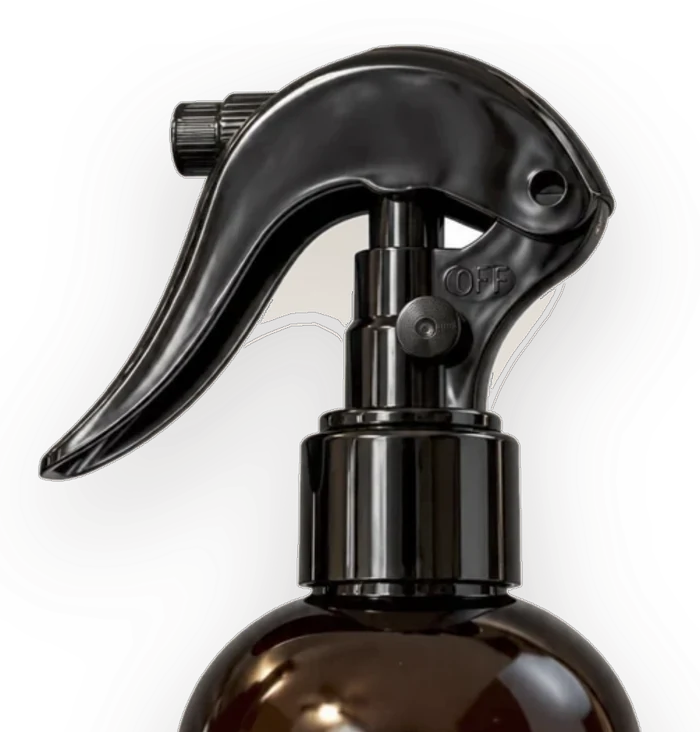
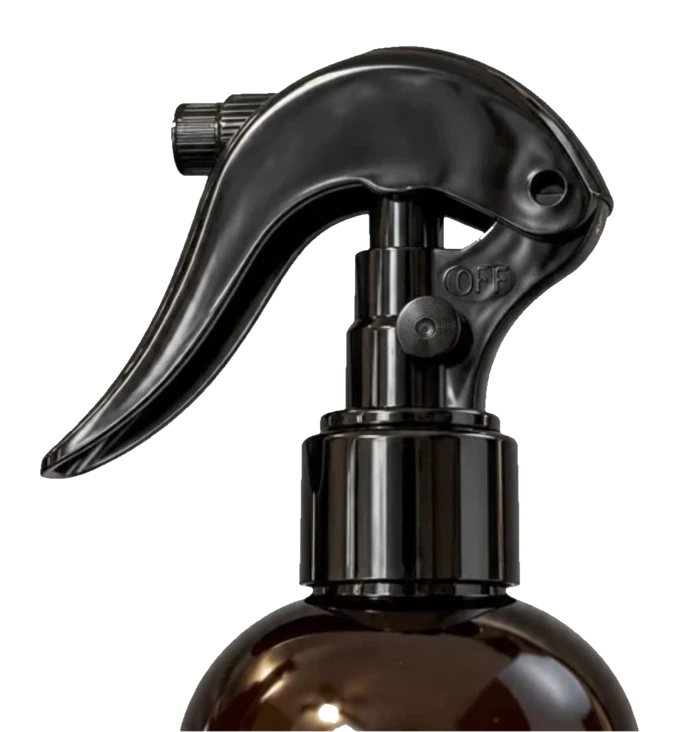
Sección de calidad con foto nueva de lado a lado y grano de película vintage; recorte limpio del atomizador
Claude-Session: https://claude.ai/code/session_01GP9HaQqxfroLHMo8LTLi3x

diff --git a/estilos.css b/estilos.css
@@ -363,28 +363,35 @@ body::before { content: ""; position: fixed; inset: 0 0 auto; height: env(safe-a
 .pasos-lista span { color: rgba(244, 234, 223, .72); }
 @media (max-width: 760px) { .pasos-lista { grid-template-columns: 1fr; gap: 28px; } }
 
-/* ---------- Calidad: foto a media pantalla + texto ---------- */
-.calidad { display: grid; grid-template-columns: minmax(0, 1fr) minmax(0, 1fr); background: #efe6dc; }
-.calidad-img { margin: 0; position: relative; min-height: 640px; overflow: hidden; }
-.calidad-img img { position: absolute; inset: 0; width: 100%; height: 100%; object-fit: cover; object-position: 45% 40%; max-width: none; }
-.calidad-txt {
-  display: grid; align-content: center; gap: 22px; max-width: 560px;
-  padding-block: clamp(64px, 8vw, 120px);
-  padding-left: clamp(32px, 6vw, 96px); padding-right: max(28px, env(safe-area-inset-right, 0px));
+/* ---------- Calidad: foto de orilla a orilla con look de película vintage ---------- */
+.calidad { position: relative; isolation: isolate; overflow: hidden; background: #f1e3cc; }
+.calidad-img { margin: 0; position: absolute; inset: 0; z-index: -2; }
+.calidad-img img { width: 100%; height: 100%; object-fit: cover; object-position: 70% 50%; max-width: none; }
+/* grano de película: textura nítida al tamaño de la pantalla, se mueve como en una proyección */
+.calidad::after {
+  content: ""; position: absolute; inset: -60px; z-index: -1; pointer-events: none;
+  background: url("img/grano.png") 0 0 / 220px 220px repeat;
+  mix-blend-mode: overlay; opacity: .9;
+  animation: grano .7s steps(5) infinite;
 }
-.calidad-txt h2 { font-size: clamp(2.3rem, 4.2vw, 3.6rem); line-height: 1.02; }
-.calidad-intro { color: var(--tinta-2); font-size: 1.05rem; }
-.calidad-lista { margin: 10px 0 0; display: grid; }
-.calidad-lista div { display: grid; grid-template-columns: minmax(0, 11rem) minmax(0, 1fr); gap: 16px; padding-block: 18px; border-top: 1px solid rgba(36, 28, 27, .15); }
-.calidad-lista div:last-child { border-bottom: 1px solid rgba(36, 28, 27, .15); }
-.calidad-lista dt { font: 400 1.2rem/1.2 var(--f-display); }
-.calidad-lista dd { margin: 0; color: var(--tinta-2); font-size: .96rem; }
+.calidad-in { max-width: 1440px; margin: 0 auto; min-height: min(56.3vw, 860px); display: grid; align-items: center;
+  padding-left: max(clamp(28px, 6vw, 96px), env(safe-area-inset-left, 0px)); padding-right: max(28px, env(safe-area-inset-right, 0px)); }
+.calidad-txt { display: grid; gap: 20px; max-width: 470px; padding-block: clamp(56px, 7vw, 100px); }
+.calidad-txt h2 { font-size: clamp(2.3rem, 4vw, 3.6rem); line-height: 1.02; }
+.calidad-intro { color: #5b4636; font-size: 1.05rem; }
+.calidad-lista { margin: 8px 0 0; display: grid; }
+.calidad-lista div { display: grid; grid-template-columns: minmax(0, 10rem) minmax(0, 1fr); gap: 16px; padding-block: 16px; border-top: 1px solid rgba(60, 40, 25, .2); }
+.calidad-lista div:last-child { border-bottom: 1px solid rgba(60, 40, 25, .2); }
+.calidad-lista dt { font: 400 1.18rem/1.2 var(--f-display); }
+.calidad-lista dd { margin: 0; color: #5b4636; font-size: .95rem; }
 @media (max-width: 860px) {
-  .calidad { grid-template-columns: 1fr; }
-  .calidad-img { min-height: 0; aspect-ratio: 4 / 5; }
-  .calidad-txt { padding-left: max(22px, env(safe-area-inset-left, 0px)); padding-right: max(22px, env(safe-area-inset-right, 0px)); }
+  .calidad-img { position: relative; inset: auto; aspect-ratio: 4 / 3; }
+  .calidad-img img { object-position: 82% 50%; }
+  .calidad-in { min-height: 0; padding-left: max(22px, env(safe-area-inset-left, 0px)); padding-right: max(22px, env(safe-area-inset-right, 0px)); }
+  .calidad-txt { max-width: none; padding-block: 36px 56px; }
   .calidad-lista div { grid-template-columns: 1fr; gap: 4px; }
 }
+@media (prefers-reduced-motion: reduce) { .calidad::after { animation: none; } }
 
 /* ---------- Preguntas ---------- */
 .faq { padding-block: clamp(72px, 9vw, 120px); }

diff --git a/index.html b/index.html
@@ -13,7 +13,7 @@
 <link rel="preconnect" href="https://fonts.googleapis.com">
 <link rel="preconnect" href="https://fonts.gstatic.com" crossorigin>
 <link rel="stylesheet" href="https://fonts.googleapis.com/css2?family=Gloock&family=Figtree:wght@300;400;500;600&display=swap">
-<link rel="stylesheet" href="estilos.css?v=31">
+<link rel="stylesheet" href="estilos.css?v=32">
 </head>
 <body>
 
@@ -107,19 +107,21 @@
     </div>
   </section>
 
-  <!-- ===== CALIDAD ===== -->
+  <!-- ===== CALIDAD: foto de margen a margen con grano de película ===== -->
   <section class="calidad">
     <figure class="calidad-img">
-      <img src="img/detalle.webp?v=4" alt="Frasco de Bruma Scent rociando a contraluz" width="1172" height="1522" loading="lazy">
+      <img src="img/calidad-fondo.webp?v=1" alt="Dos frascos de Bruma Scent bajo la luz del sol" width="1672" height="941" loading="lazy">
     </figure>
-    <div class="calidad-txt">
-      <h2>El aroma que amas, sin pagar la etiqueta.</h2>
-      <p class="calidad-intro">Cada Bruma Scent está inspirado en un perfume de diseñador y busca reproducir su perfil, para que tengas varios aromas para distintos momentos sin gastar lo de uno solo.</p>
-      <dl class="calidad-lista">
-        <div><dt>Las mismas notas</dt><dd>Salida, corazón y fondo como el original en el que se inspira.</dd></div>
-        <div><dt>Buena duración</dt><dd>Fórmulas pensadas para durar en piel durante el día.</dd></div>
-        <div><dt>Precio accesible</dt><dd>Lujo para todos los días, sin pagar la marca.</dd></div>
-      </dl>
+    <div class="calidad-in">
+      <div class="calidad-txt">
+        <h2>El aroma que amas, sin pagar la etiqueta.</h2>
+        <p class="calidad-intro">Cada Bruma Scent está inspirado en un perfume de diseñador y busca reproducir su perfil, para que tengas varios aromas para distintos momentos sin gastar lo de uno solo.</p>
+        <dl class="calidad-lista">
+          <div><dt>Las mismas notas</dt><dd>Salida, corazón y fondo como el original en el que se inspira.</dd></div>
+          <div><dt>Buena duración</dt><dd>Fórmulas pensadas para durar en piel durante el día.</dd></div>
+          <div><dt>Precio accesible</dt><dd>Lujo para todos los días, sin pagar la marca.</dd></div>
+        </dl>
+      </div>
     </div>
   </section>
 
@@ -211,6 +213,6 @@
 
 <script src="productos.js?v=8"></script>
 <script src="notas.js?v=5"></script>
-<script src="app.js?v=12"></script>
+<script src="app.js?v=13"></script>
 </body>
 </html>

diff --git a/hombre.html b/hombre.html
@@ -13,7 +13,7 @@
 <link rel="preconnect" href="https://fonts.googleapis.com">
 <link rel="preconnect" href="https://fonts.gstatic.com" crossorigin>
 <link rel="stylesheet" href="https://fonts.googleapis.com/css2?family=Gloock&family=Figtree:wght@300;400;500;600&display=swap">
-<link rel="stylesheet" href="estilos.css?v=31">
+<link rel="stylesheet" href="estilos.css?v=32">
 </head>
 <body class="pagina-catalogo" data-genero="hombre">
 
@@ -128,6 +128,6 @@
 
 <script src="productos.js?v=8"></script>
 <script src="notas.js?v=5"></script>
-<script src="app.js?v=12"></script>
+<script src="app.js?v=13"></script>
 </body>
 </html>

diff --git a/unisex.html b/unisex.html
@@ -13,7 +13,7 @@
 <link rel="preconnect" href="https://fonts.googleapis.com">
 <link rel="preconnect" href="https://fonts.gstatic.com" crossorigin>
 <link rel="stylesheet" href="https://fonts.googleapis.com/css2?family=Gloock&family=Figtree:wght@300;400;500;600&display=swap">
-<link rel="stylesheet" href="estilos.css?v=31">
+<link rel="stylesheet" href="estilos.css?v=32">
 </head>
 <body class="pagina-catalogo" data-genero="unisex">
 
@@ -128,6 +128,6 @@
 
 <script src="productos.js?v=8"></script>
 <script src="notas.js?v=5"></script>
-<script src="app.js?v=12"></script>
+<script src="app.js?v=13"></script>
 </body>
 </html>

diff --git a/hogar.html b/hogar.html
@@ -13,7 +13,7 @@
 <link rel="preconnect" href="https://fonts.googleapis.com">
 <link rel="preconnect" href="https://fonts.gstatic.com" crossorigin>
 <link rel="stylesheet" href="https://fonts.googleapis.com/css2?family=Gloock&family=Figtree:wght@300;400;500;600&display=swap">
-<link rel="stylesheet" href="estilos.css?v=31">
+<link rel="stylesheet" href="estilos.css?v=32">
 </head>
 <body class="pagina-catalogo" data-genero="hogar">
 
@@ -128,6 +128,6 @@
 
 <script src="productos.js?v=8"></script>
 <script src="notas.js?v=5"></script>
-<script src="app.js?v=12"></script>
+<script src="app.js?v=13"></script>
 </body>
 </html>

diff --git a/mujer.html b/mujer.html
@@ -13,7 +13,7 @@
 <link rel="preconnect" href="https://fonts.googleapis.com">
 <link rel="preconnect" href="https://fonts.gstatic.com" crossorigin>
 <link rel="stylesheet" href="https://fonts.googleapis.com/css2?family=Gloock&family=Figtree:wght@300;400;500;600&display=swap">
-<link rel="stylesheet" href="estilos.css?v=31">
+<link rel="stylesheet" href="estilos.css?v=32">
 </head>
 <body class="pagina-catalogo" data-genero="mujer">
 
@@ -128,6 +128,6 @@
 
 <script src="productos.js?v=8"></script>
 <script src="notas.js?v=5"></script>
-<script src="app.js?v=12"></script>
+<script src="app.js?v=13"></script>
 </body>
 </html>

diff --git a/app.js b/app.js
@@ -138,7 +138,7 @@
        En "hogar" se muestra img/hogar-spray.webp. */
     document.querySelectorAll("[data-frascos]").forEach(function (el) {
       if (el.dataset.frascos === "hogar") {  // imagen neutral (sin temporada) del atomizador
-        el.innerHTML = '<img class="foto-hogar" src="img/hogar-spray.webp" alt="" loading="lazy">';
+        el.innerHTML = '<img class="foto-hogar" src="img/hogar-spray.webp?v=2" alt="" loading="lazy">';
         return;
       }
       el.innerHTML = '<span class="frasco"><img src="img/botella-neutra.webp" alt="" width="333" height="1000" loading="lazy"><i></i></span>';
